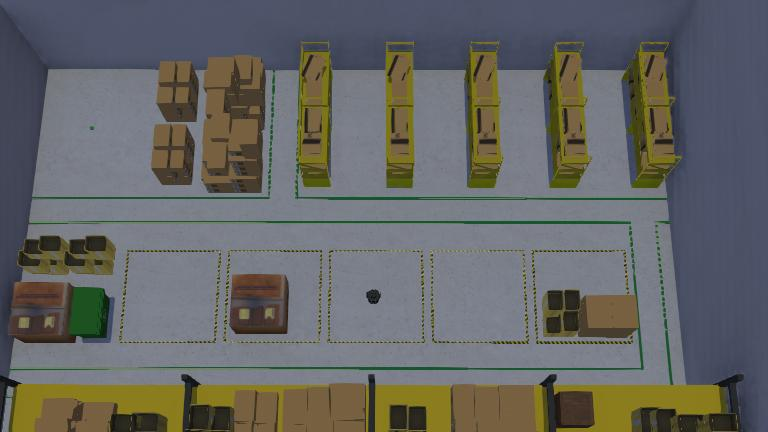
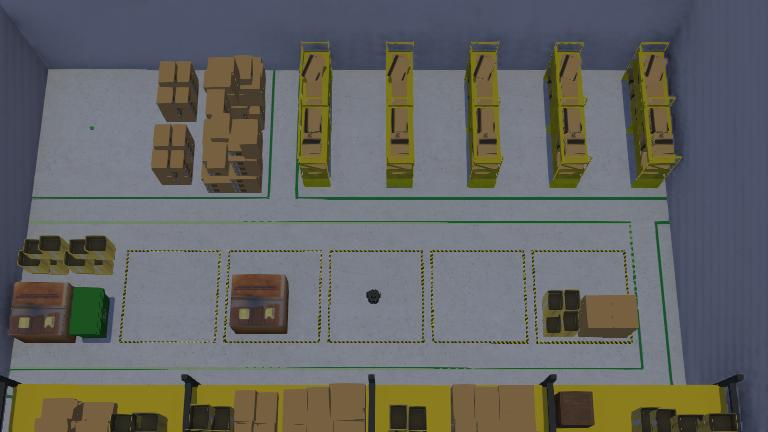
adding hidden_target ball

diff --git a/turtlebot3_webots_project/controllers/Agent/library/tb3_agent_wrapper.py b/turtlebot3_webots_project/controllers/Agent/library/tb3_agent_wrapper.py
@@ -7,6 +7,9 @@ import numpy as np
 from imitation.data import types
 from library.tb3_agent import Agent, logger
 
+# from scenario list
+from scenario_list import list_robot_scenario
+
 
 class JoystickEnv(Agent):
     """
@@ -89,10 +92,10 @@ class JoystickEnv(Agent):
 
         if self.en_tracking:
             self.tracking.states.append(
-                state.tolist() if type(state) == np.ndarray else state
+                state.tolist() if isinstance(action, np.ndarray) else state
             )
             self.tracking.actions.append(
-                action.tolist() if type(action) == np.ndarray else action
+                action.tolist() if isinstance(action, np.ndarray) else action
             )
             self.tracking.infos.append(info)
 
@@ -158,3 +161,64 @@ class JoystickEnv(Agent):
             )
 
         return state, info
+
+
+class TB3_Agent_Demo(Agent):
+    def __init__(self,
+                 name_exp,
+                 agent_settings,
+                 scene_configuration,
+                 fixed_steps: bool = True,
+                 logging_reward: bool = False,
+                 verbose: bool = False):
+        super(TB3_Agent_Demo, self).__init__(name_exp, 
+                                             agent_settings, 
+                                             scene_configuration, 
+                                             fixed_steps, 
+                                             verbose)
+        
+        self.scenario_now_idx = self.scene_cfg.scene_start_from
+        self.spawn_and_change_hidden_ball(self.scene_cfg.scene_start_from)
+
+    def spawn_and_change_hidden_ball(self, 
+                                     scenario_idx):
+        self.root_node = self.agent.getRoot()
+        self.children_field = self.root_node.getField('children')        
+        
+        j = 0
+        for i in range(self.max_scenario):
+            if i==scenario_idx:
+                pass
+            else:
+                print("spawn hidden target index : ", i)
+                x = list_robot_scenario[i][4]
+                y = list_robot_scenario[i][5]
+                z = list_robot_scenario[i][6]
+                self.children_field.importMFNodeFromString(-1, 
+                                                           f"DEF hidden{j} hidden_target_ball {{ translation {x} {y} {z} }}")
+                j+=1
+
+    def delete_hidden_ball(self,
+                           scenario_idx):
+        j = 0
+        for i in range(self.max_scenario):
+            if i==scenario_idx:
+                pass
+            else:
+                print("delete hidden target index : ", i)
+                hidden_node = self.agent.getFromDef(f'hidden{j}')
+                hidden_node.remove()
+                j+=1
+
+    def step(self, action):
+        return super(TB3_Agent_Demo, self).step(action)
+
+    def reset(self, seed: Optional[int] = 1):
+        obs, info = super(TB3_Agent_Demo, self).reset(seed)
+        if self.scenario_now_idx != self.scenario_idx:
+            self.scenario_now_idx = self.scenario_idx
+            self.delete_hidden_ball(self.scenario_now_idx)
+            self.spawn_and_change_hidden_ball(self.scenario_now_idx)
+
+        return obs, info
+

diff --git a/turtlebot3_webots_project/controllers/Agent/Agent.py b/turtlebot3_webots_project/controllers/Agent/Agent.py
@@ -22,7 +22,7 @@ from library.custom_rl_algo import PPO, SAC
 from library.Imitation.AIRL import AIRL
 from library.tb3_agent import Agent, logger
 from library.tb3_agent_callback import Eval_and_Save
-from library.tb3_agent_wrapper import JoystickEnv
+from library.tb3_agent_wrapper import JoystickEnv, TB3_Agent_Demo
 from numpy.typing import NDArray
 
 # RL Library
@@ -373,12 +373,11 @@ def CustomAIRLProgram(exp_name: str):
 
     roboAgent = gym.vector.SyncVectorEnv(
         [
-            lambda: Agent(
-                name_exp=exp_name,
-                agent_settings=agent_settings,
-                scene_configuration=scene_configuration,
-                fixed_steps=True,
-                logging_reward=True,
+            lambda: TB3_Agent_Demo(name_exp=exp_name,
+                                   agent_settings=agent_settings,
+                                   scene_configuration=scene_configuration,
+                                   fixed_steps=True,
+                                   logging_reward=True,
             )
         ]
     )
